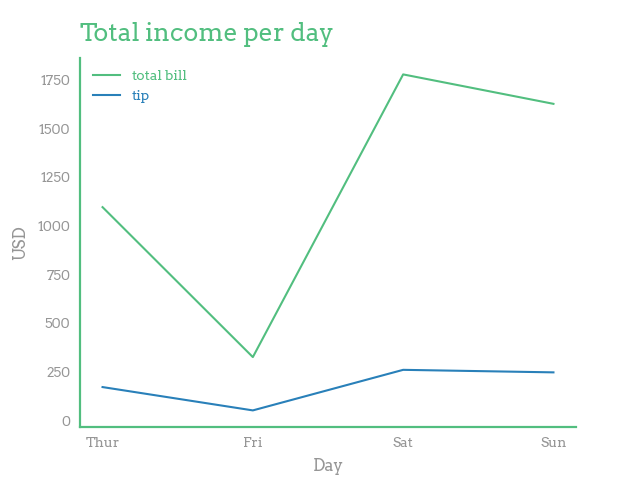
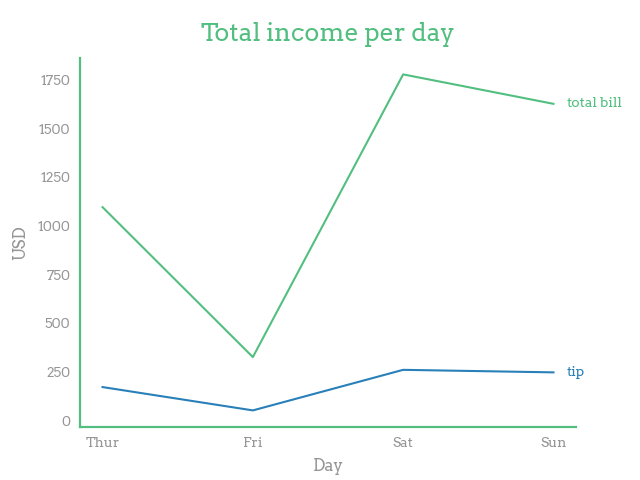
added lineplot legend

diff --git a/rootsstyle/__main__.py b/rootsstyle/__main__.py
@@ -33,7 +33,7 @@ style = {
     # FONT
     "font.family": "Arvo",
     # TITLE
-    "axes.titlelocation": "left",
+    "axes.titlelocation": "center",
     "axes.titlesize": 18,
     "axes.titlepad": 12,
     "axes.titlecolor": colors["green_light"],
@@ -67,22 +67,23 @@ style = {
 }
 
 #Inspiration: https://github.com/nschloe/dufte
-def line_legend(ax=None):
-    ax = ax or plt.gca()
+def legend_line():
+    ax = plt.gca()
     lines = [child for child in ax.get_children() if type(child)==mpl.lines.Line2D]
     if len(lines)==0:
         return
+    #Removing existing legend
+    if ax.legend_ is not None:
+        ax.legend_ = None
     labels = [line.get_label() for line in lines]
     colors = [line.get_color() for line in lines]
 
-    targets = [ line.get_ydata()[~np.isnan(line.get_ydata())][-1] for line in lines]
-    ymax = ax.get_ylim()[1]
-    targets = [min(target, ymax) for target in targets]
+    last_y = [line.get_ydata()[~np.isnan(line.get_ydata())][-1] for line in lines]
+    last_x = [line.get_xdata()[~np.isnan(line.get_xdata())][-1] for line in lines]
+    targets = [(x*1.03, y) for x, y in zip(last_x, last_y)]
 
-    axis_to_data = ax.transAxes + ax.transData.inverted()
-    xpos = axis_to_data.transform([1.03, 1.0])[0]
-    for label, ypos, color in zip(labels, targets, colors):
-        plt.text(xpos, ypos, label, verticalalignment="center", color=color)
+    for label, (x,y), color in zip(labels, targets, colors):
+        plt.text(x, y, label, verticalalignment="center", color=color)
 
 def legend(title=None):
     """Displays the legend to the left of the plot.

diff --git a/tests/test_rootsstyle.py b/tests/test_rootsstyle.py
@@ -64,12 +64,12 @@ def test_lineplot_seaborn():
     )
 
     with plt.style.context(rootsstyle.style):
-        sns.lineplot(x="day", y="total_bill", data=tips)
-        sns.lineplot(x="day", y="tip", data=tips)
+        sns.lineplot(x="day", y="total_bill", data=tips, label='total bill')
+        sns.lineplot(x="day", y="tip", data=tips, label='tip')
         plt.title("Total income per day")
-        plt.legend(["total bill", "tip"], labelcolor="linecolor")
         plt.xlabel("Day")
         plt.ylabel("USD")
+        rootsstyle.legend_line()
         assert plt.gcf().number == 1
         plt.savefig("images/lineplot.png", transparent=True)
         plt.close()

diff --git a/rootsstyle/__init__.py b/rootsstyle/__init__.py
@@ -1,4 +1,4 @@
-from .__main__ import style, legend
+from .__main__ import style, legend, legend_line
 
 __version__ = "0.1.0"
-__all__ = ["style", "legend"]
+__all__ = ["style", "legend", "legend_line"]
